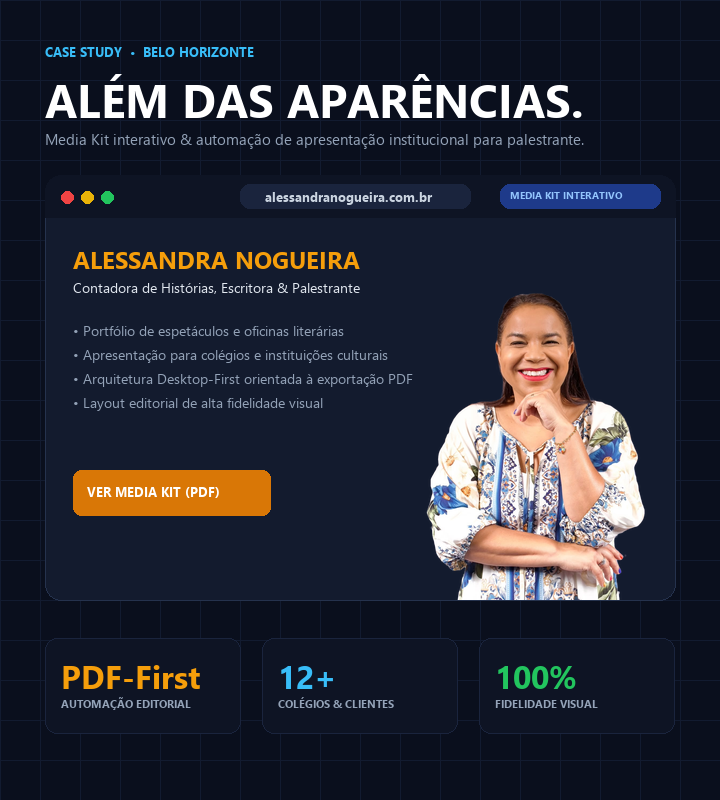
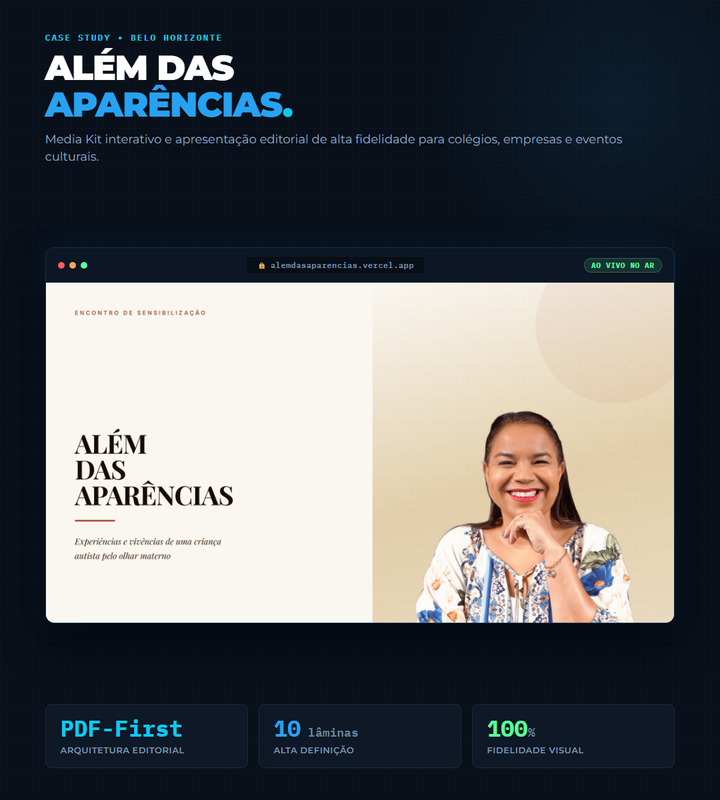
Visual Update

diff --git a/src/sections/Projects/Projects.jsx b/src/sections/Projects/Projects.jsx
@@ -1,10 +1,10 @@
 import styles from './ProjectsStyles.module.css';
 import ProjectCard from '../../common/ProjectCard';
 import saudeMaterImg from '../../assets/saudemater_case.png';
-import alessandraImg from '../../assets/AlemDasAparencias.png';
+import alessandraImg from '../../assets/alessandra_case.png';
 import alessandraPDF from '../../assets/Alem_das_Aparencias_Alessandra_Nogueira.pdf';
-import radarAcademicoImg from '../../assets/RadarAcademico_clean.png';
-import brickStoreImg from '../../assets/BrickStore_clean.png';
+import radarAcademicoImg from '../../assets/radaracademico_case.png';
+import brickStoreImg from '../../assets/brickstore_case.png';
 import { useContext } from 'react';
 import { LanguageContext } from '../../common/LanguageContext';
 
